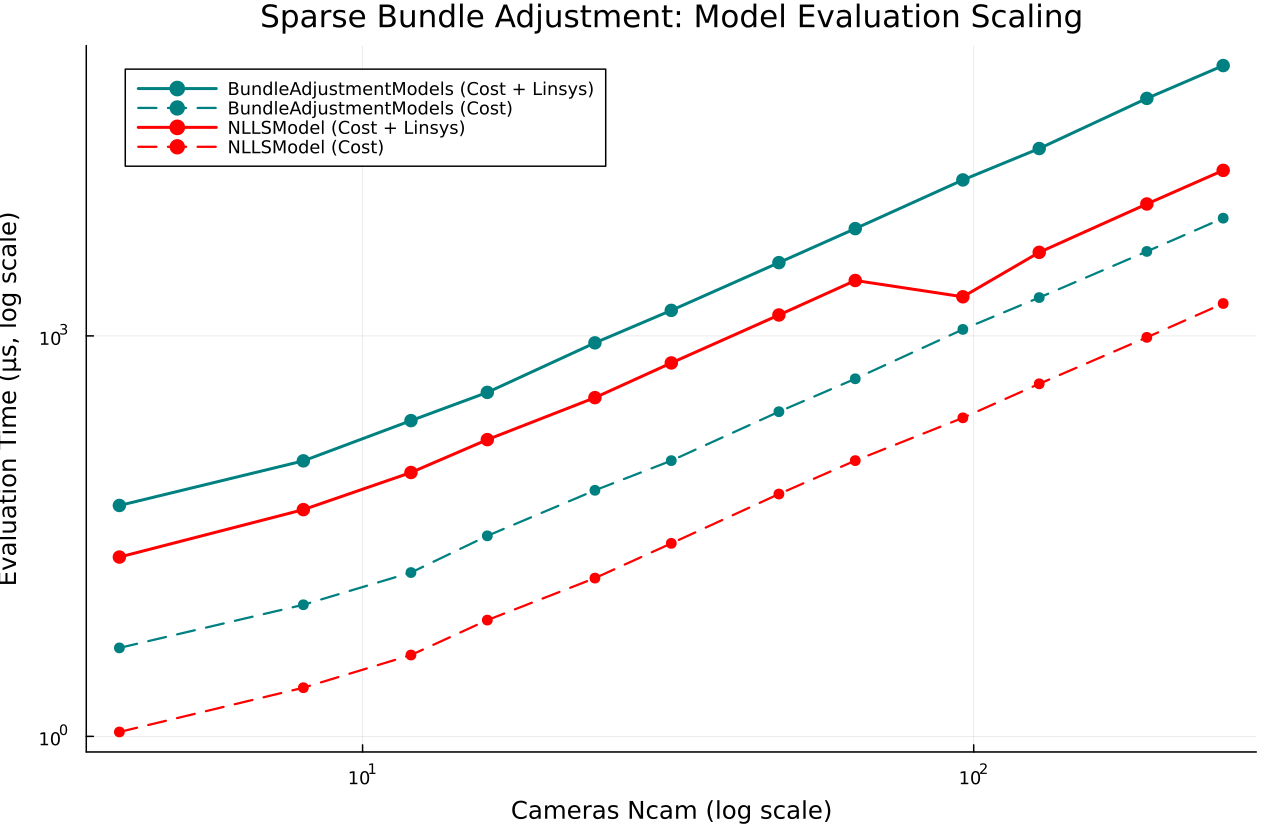
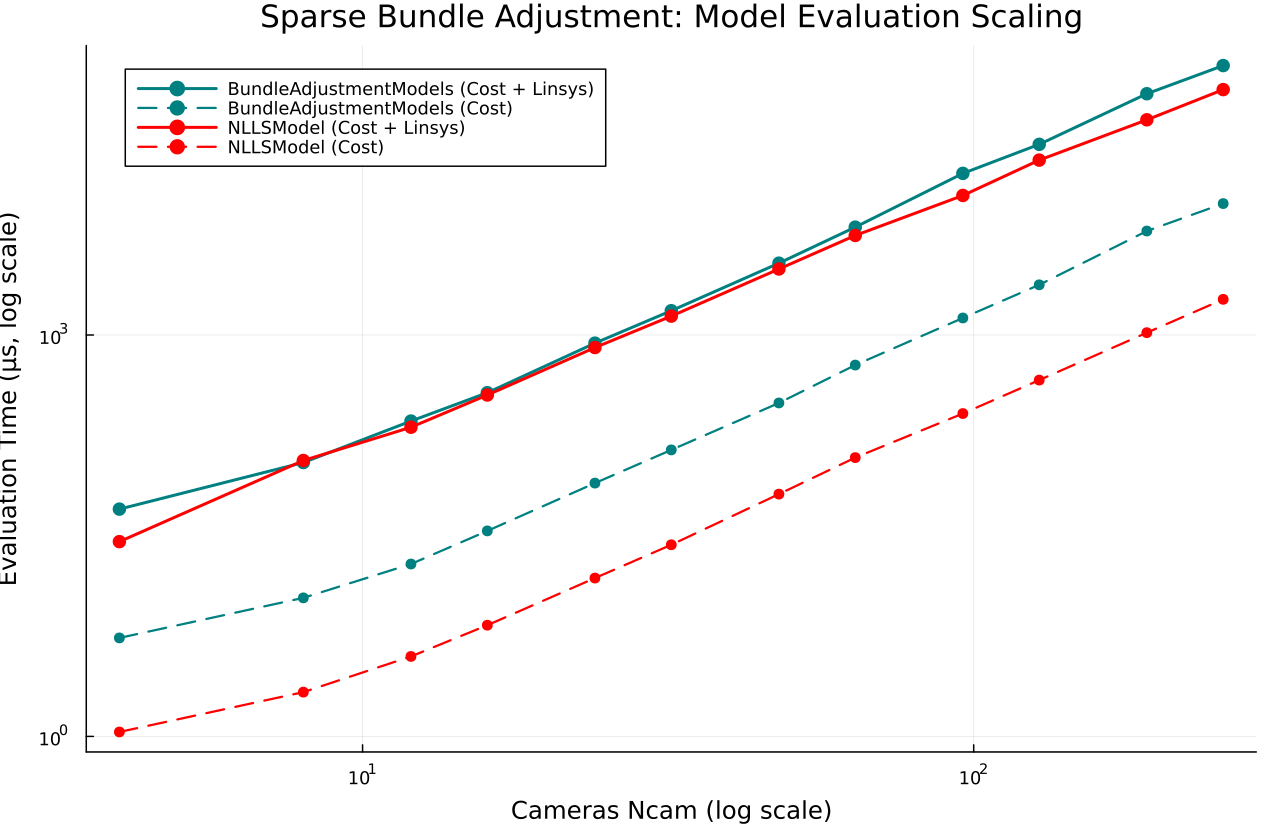
Remove dogleg from sparse BA problem

diff --git a/docs/src/data/bundle_adjustment.md b/docs/src/data/bundle_adjustment.md
@@ -4,11 +4,11 @@
 - **Scaling Metric**: Cameras Ncam
 - **Optimizer Target Model**: BundleAdjustmentModels
 - **Convergence Criteria**: gtol=1.0e-8, xtol=1.0e-8, ftol=1.0e-8, maxiters=500, maxtime=30.0s
-- **Benchmark Date**: 2026-11-07T21:19:28
+- **Benchmark Date**: 2026-11-09T12:06:03
 - **Host CPU**: apple-m1 (10 cores)
 - **OS**: Darwin (arm64-apple-darwin27.0.0)
 - **Julia Version**: 1.13.3
-- **Git Commit**: b448285
+- **Git Commit**: eba33b8
 
 ---
 
@@ -16,30 +16,30 @@
 
 | Size | Model | Cost Time (ns) | Cost Allocs | Cost Memory (bytes) | Linsys Time (ns) | Linsys Allocs | Linsys Memory (bytes) |
 |:---|:---|---:|---:|---:|---:|---:|---:|
-| 4 | NLLSModel | 1078.7222222222222 | 0 | 0 | 22042.0 | 0 | 0 |
-| 4 | BundleAdjustmentModels | 4600.0 | 0 | 0 | 53667.0 | 21 | 190832 |
-| 8 | NLLSModel | 2314.777777777778 | 0 | 0 | 49959.0 | 0 | 0 |
-| 8 | BundleAdjustmentModels | 9680.666666666666 | 0 | 0 | 115875.0 | 21 | 479488 |
-| 12 | NLLSModel | 4066.8 | 0 | 0 | 94792.0 | 0 | 0 |
-| 12 | BundleAdjustmentModels | 16875.0 | 0 | 0 | 232000.0 | 23 | 891744 |
-| 16 | NLLSModel | 7430.333333333333 | 0 | 0 | 167125.0 | 0 | 0 |
-| 16 | BundleAdjustmentModels | 31792.0 | 0 | 0 | 377541.0 | 23 | 1551824 |
-| 24 | NLLSModel | 15333.0 | 0 | 0 | 344917.0 | 0 | 0 |
-| 24 | BundleAdjustmentModels | 69708.0 | 0 | 0 | 887250.0 | 23 | 3494016 |
-| 32 | NLLSModel | 27916.0 | 0 | 0 | 627459.0 | 0 | 0 |
-| 32 | BundleAdjustmentModels | 116292.0 | 0 | 0 | 1.553708e6 | 23 | 6132032 |
-| 48 | NLLSModel | 65375.0 | 0 | 0 | 1.434625e6 | 0 | 0 |
-| 48 | BundleAdjustmentModels | 270542.0 | 0 | 0 | 3.540708e6 | 23 | 13774576 |
-| 64 | NLLSModel | 116375.0 | 0 | 0 | 2.601583e6 | 0 | 0 |
-| 64 | BundleAdjustmentModels | 477333.0 | 0 | 0 | 6.366208e6 | 23 | 24445040 |
-| 96 | NLLSModel | 243417.0 | 0 | 0 | 1.964333e6 | 3 | 3504 |
-| 96 | BundleAdjustmentModels | 1.118667e6 | 0 | 0 | 1.4743833e7 | 24 | 54910000 |
-| 128 | NLLSModel | 437708.0 | 0 | 0 | 4.227833e6 | 3 | 3504 |
-| 128 | BundleAdjustmentModels | 1.937291e6 | 0 | 0 | 2.5347833e7 | 24 | 97566256 |
-| 192 | NLLSModel | 975292.0 | 0 | 0 | 9.737458e6 | 3 | 3504 |
-| 192 | BundleAdjustmentModels | 4.294875e6 | 0 | 0 | 6.01685e7 | 24 | 219452976 |
-| 256 | NLLSModel | 1.7495e6 | 0 | 0 | 1.7391084e7 | 3 | 3504 |
-| 256 | BundleAdjustmentModels | 7.623375e6 | 0 | 0 | 1.06000292e8 | 24 | 390060592 |
+| 4 | NLLSModel | 1074.578947368421 | 0 | 0 | 26125.0 | 185 | 79104 |
+| 4 | BundleAdjustmentModels | 3465.3333333333335 | 0 | 0 | 54709.0 | 21 | 190832 |
+| 8 | NLLSModel | 2129.2 | 0 | 0 | 34625.0 | 0 | 0 |
+| 8 | BundleAdjustmentModels | 6903.0 | 0 | 0 | 111875.0 | 21 | 479488 |
+| 12 | NLLSModel | 3944.5 | 0 | 0 | 68708.0 | 0 | 0 |
+| 12 | BundleAdjustmentModels | 12459.0 | 0 | 0 | 237250.0 | 23 | 891744 |
+| 16 | NLLSModel | 6903.0 | 0 | 0 | 119000.0 | 0 | 0 |
+| 16 | BundleAdjustmentModels | 23417.0 | 0 | 0 | 381791.0 | 23 | 1551824 |
+| 24 | NLLSModel | 15750.0 | 0 | 0 | 263542.0 | 0 | 0 |
+| 24 | BundleAdjustmentModels | 50583.0 | 0 | 0 | 867083.0 | 23 | 3494016 |
+| 32 | NLLSModel | 27583.0 | 0 | 0 | 491750.0 | 0 | 0 |
+| 32 | BundleAdjustmentModels | 91000.0 | 0 | 0 | 1.529708e6 | 23 | 6132032 |
+| 48 | NLLSModel | 65167.0 | 0 | 0 | 1.053125e6 | 0 | 0 |
+| 48 | BundleAdjustmentModels | 204375.0 | 0 | 0 | 3.364125e6 | 23 | 13774576 |
+| 64 | NLLSModel | 110458.0 | 0 | 0 | 1.889792e6 | 0 | 0 |
+| 64 | BundleAdjustmentModels | 377250.0 | 0 | 0 | 7.02475e6 | 23 | 24445040 |
+| 96 | NLLSModel | 268875.0 | 0 | 0 | 2.742292e6 | 3 | 3504 |
+| 96 | BundleAdjustmentModels | 844542.0 | 0 | 0 | 1.6438917e7 | 24 | 54910000 |
+| 128 | NLLSModel | 1.664542e6 | 0 | 0 | 7.1535e6 | 3 | 3504 |
+| 128 | BundleAdjustmentModels | 2.437833e6 | 0 | 0 | 3.1335375e7 | 24 | 97566256 |
+| 192 | NLLSModel | 1.104625e6 | 0 | 0 | 1.1877208e7 | 3 | 3504 |
+| 192 | BundleAdjustmentModels | 3.605875e6 | 0 | 0 | 6.1914459e7 | 24 | 219452976 |
+| 256 | NLLSModel | 1.786917e6 | 0 | 0 | 1.6710583e7 | 3 | 3504 |
+| 256 | BundleAdjustmentModels | 6.792083e6 | 0 | 0 | 1.2071025e8 | 24 | 390060592 |
 
 ---
 
@@ -49,87 +49,24 @@ Solvers evaluated on their respective optimal model representations (e.g. `NLLSM
 
 | Size | Optimizer | Runtime (ns) | Allocs | Memory (bytes) | Iterations | Final Cost | Converged |
 |:---|:---|---:|---:|---:|---:|---:|:---|
-| 4 | SecondOrderOptimization (Sparse LM) | 859333.5 | 168 | 838800 | 8 | 8.2673e-16 | true |
-| 4 | SecondOrderOptimization (Sparse Dogleg) | 876916.5 | 164 | 675616 | 9 | 1.9846e-26 | true |
-| 4 | CaNNOLeS | 950749.5 | 191 | 359056 | 7 | 4.7517e-16 | true |
-| 4 | JSOSolvers (trunk) | 6.43944521e8 | 359780 | 1188428656 | 25 | 6.8334e-14 | true |
-| 4 | JSOSolvers (tron) | 6.205422708e9 | 3630139 | 11992520976 | 501 | 5.9770e-12 | false |
-| 4 | Ipopt | 2.6974995e6 | 632 | 2347072 | 8 | 4.0004e-15 | true |
-| 4 | MadNLP | 1.5363955e6 | 827 | 2362448 | 7 | 4.7778e-13 | true |
-| 8 | SecondOrderOptimization (Sparse LM) | 1.0493755e6 | 199 | 649728 | 7 | 2.8516e-15 | true |
-| 8 | SecondOrderOptimization (Sparse Dogleg) | 1.5232085e6 | 198 | 585712 | 11 | 6.0395e-25 | true |
-| 8 | CaNNOLeS | 1.756396e6 | 208 | 712224 | 6 | 3.4177e-16 | true |
-| 8 | JSOSolvers (trunk) | 3.0000271792e10 | 8961089 | 59033970256 | 200 | 4.8776e-13 | false |
-| 8 | JSOSolvers (tron) | 2.9703426958e10 | 8843893 | 58261488816 | 501 | 6.9254e-12 | false |
-| 8 | Ipopt | 5.163521e6 | 766 | 6821744 | 10 | 1.4563e-14 | true |
-| 8 | MadNLP | 2.6497915e6 | 827 | 5363552 | 7 | 1.8327e-11 | true |
-| 12 | SecondOrderOptimization (Sparse LM) | 2.0025205e6 | 226 | 1096384 | 7 | 1.1061e-15 | true |
-| 12 | SecondOrderOptimization (Sparse Dogleg) | 2.1465835e6 | 226 | 984176 | 8 | 9.7860e-26 | true |
-| 12 | CaNNOLeS | 3.3447505e6 | 222 | 1259808 | 6 | 8.4917e-16 | true |
-| 12 | JSOSolvers (trunk) | 3.0000492708e10 | 6611146 | 77880219792 | 87 | 3.0898e-12 | false |
-| 12 | JSOSolvers (tron) | 3.0001443083e10 | 6638999 | 78207500576 | 180 | 6.3665e-12 | false |
-| 12 | Ipopt | 7.6820835e6 | 740 | 11347760 | 9 | 5.4678e-14 | true |
-| 12 | MadNLP | 3.4619165e6 | 792 | 7375296 | 5 | 6.7695e-09 | true |
-| 16 | SecondOrderOptimization (Sparse LM) | 3.9623955e6 | 227 | 1815968 | 7 | 2.5031e-15 | true |
-| 16 | SecondOrderOptimization (Sparse Dogleg) | 4.521042e6 | 227 | 1622352 | 9 | 1.9672e-25 | true |
-| 16 | CaNNOLeS | 6.0194585e6 | 226 | 2370400 | 5 | 1.8425e-14 | true |
-| 16 | JSOSolvers (trunk) | 3.0000890083e10 | 3798348 | 74434010800 | 39 | 1.4273e-11 | false |
-| 16 | JSOSolvers (tron) | 3.0003315459e10 | 3820889 | 74874382000 | 52 | 1.4587e-11 | false |
-| 16 | Ipopt | 1.2924333e7 | 740 | 19373856 | 9 | 2.8960e-14 | true |
-| 16 | MadNLP | 6.5989585e6 | 833 | 14585168 | 6 | 2.3365e-10 | true |
-| 24 | SecondOrderOptimization (Sparse LM) | 1.060125e7 | 227 | 3758384 | 7 | 8.8448e-15 | true |
-| 24 | SecondOrderOptimization (Sparse Dogleg) | 1.0854292e7 | 227 | 3353824 | 8 | 1.1723e-24 | true |
-| 24 | CaNNOLeS | 1.38327915e7 | 228 | 4834176 | 5 | 1.9298e-17 | true |
-| 24 | JSOSolvers (trunk) | 3.000155625e10 | 1696100 | 72747191632 | 18 | 1.2651e-10 | false |
-| 24 | JSOSolvers (tron) | 3.000627325e10 | 1713809 | 73503874240 | 13 | 5.2016e-10 | false |
-| 24 | Ipopt | 3.30161665e7 | 882 | 52291856 | 11 | 6.0972e-16 | true |
-| 24 | MadNLP | 1.55202915e7 | 845 | 32202736 | 6 | 1.3226e-10 | true |
-| 32 | SecondOrderOptimization (Sparse LM) | 2.73205625e7 | 232 | 6471968 | 9 | 1.2027e-17 | true |
-| 32 | SecondOrderOptimization (Sparse Dogleg) | 1.9799708e7 | 232 | 5773520 | 7 | 2.9399e-24 | true |
-| 32 | CaNNOLeS | 3.332375e7 | 228 | 8092544 | 4 | 1.6044e-17 | true |
-| 32 | JSOSolvers (trunk) | 3.0004391708e10 | 974720 | 68452693584 | 14 | 1.5487e-09 | false |
-| 32 | JSOSolvers (tron) | 3.0016256375e10 | 960929 | 67479326944 | 5 | 1.7252e-09 | false |
-| 32 | Ipopt | 4.9632917e7 | 740 | 74536464 | 9 | 1.3067e-14 | true |
-| 32 | MadNLP | 3.1862916e7 | 886 | 63895632 | 7 | 2.1740e-11 | true |
-| 48 | SecondOrderOptimization (Sparse LM) | 1.03815896e8 | 254 | 14110000 | 12 | 1.8196e-23 | true |
-| 48 | SecondOrderOptimization (Sparse Dogleg) | 1.059340415e8 | 254 | 12563680 | 13 | 1.5955e-23 | true |
-| 48 | CaNNOLeS | 9.08985e7 | 228 | 18045824 | 4 | 1.8343e-18 | true |
-| 48 | JSOSolvers (trunk) | 3.0005454542e10 | 412880 | 65895277136 | 14 | 1.6217e-04 | false |
-| 48 | JSOSolvers (tron) | 3.0016821916e10 | 416279 | 66426981776 | 2 | 1.7232e-04 | false |
-| 48 | Ipopt | 2.66797417e8 | 1542 | 351228544 | 19 | 1.4722e-23 | true |
-| 48 | MadNLP | 9.54515835e7 | 804 | 105275120 | 5 | 2.7168e-08 | true |
-| 64 | SecondOrderOptimization (Sparse LM) | 2.48635625e8 | 254 | 27453296 | 13 | 5.3414e-23 | true |
-| 64 | SecondOrderOptimization (Sparse Dogleg) | 2.47640271e8 | 254 | 24745760 | 14 | 5.5091e-23 | true |
-| 64 | CaNNOLeS | 1.88581916e8 | 228 | 40147840 | 4 | 1.0359e-19 | true |
-| 64 | JSOSolvers (trunk) | 3.0009746042e10 | 238790 | 66835453648 | 9 | 6.1471e-01 | false |
-| 64 | JSOSolvers (tron) | 3.0045013625e10 | 238679 | 66785244608 | 1 | 1.7984e+01 | false |
-| 64 | Ipopt | 7.049169375e8 | 1510 | 620748800 | 19 | 4.8607e-23 | true |
-| 64 | MadNLP | 2.037508755e8 | 804 | 185804832 | 5 | 1.6882e-08 | true |
-| 96 | SecondOrderOptimization (Sparse LM) | 7.471406255e8 | 342 | 104533216 | 14 | 2.1437e-21 | true |
-| 96 | SecondOrderOptimization (Sparse Dogleg) | 8.481932705e8 | 348 | 87980016 | 17 | 2.4382e-22 | true |
-| 96 | CaNNOLeS | 5.37221229e8 | 228 | 77273984 | 4 | 1.6285e-21 | true |
-| 96 | JSOSolvers (trunk) | 3.0022955292e10 | 104150 | 65598307024 | 5 | 4.4481e+03 | false |
-| 96 | JSOSolvers (tron) | 3.0104549667e10 | 105419 | 66148146480 | 1 | 4.3682e+03 | false |
-| 96 | Ipopt | 2.756437791e9 | 2149 | 1903594128 | 26 | 2.4973e-22 | true |
-| 96 | MadNLP | 7.222942085e8 | 893 | 564854320 | 7 | 3.6600e-08 | true |
-| 128 | SecondOrderOptimization (Sparse LM) | 1.893810917e9 | 345 | 148211312 | 15 | 4.6305e-21 | true |
-| 128 | SecondOrderOptimization (Sparse Dogleg) | 2.322499042e9 | 354 | 135581488 | 19 | 8.0831e-22 | true |
-| 128 | CaNNOLeS | 1.147284708e9 | 228 | 164436864 | 4 | 2.8962e-21 | true |
-| 128 | JSOSolvers (trunk) | 3.0039017375e10 | 53870 | 60391062736 | 5 | 1.2181e+05 | false |
-| 128 | JSOSolvers (tron) | 3.0206521667e10 | 55079 | 61330041504 | 1 | 1.2845e+05 | false |
-| 128 | Ipopt | 4.609293166e9 | 2257 | 3377587760 | 26 | 7.4245e-22 | true |
-| 128 | MadNLP | 1.781851584e9 | 935 | 1181265872 | 8 | 1.3112e-07 | true |
-| 192 | SecondOrderOptimization (Sparse LM) | 7.092149667e9 | 351 | 394937968 | 17 | 4.4028e-21 | true |
-| 192 | SecondOrderOptimization (Sparse Dogleg) | 7.527567875e9 | 354 | 351146960 | 19 | 4.3125e-21 | true |
-| 192 | CaNNOLeS | 4.0038005e9 | 228 | 325180288 | 4 | 4.2749e-21 | true |
-| 192 | JSOSolvers (trunk) | 3.0112061041e10 | 23990 | 60995162832 | 3 | 1.5779e+06 | false |
-| 192 | JSOSolvers (tron) | 3.0568119333e10 | 24599 | 61605334864 | 1 | 1.5792e+06 | false |
-| 192 | Ipopt | 1.4018228916e10 | 2617 | 7880823232 | 27 | 4.0159e-21 | true |
-| 192 | MadNLP | 5.884508917e9 | 1019 | 3196730720 | 10 | 6.6633e-07 | true |
-| 256 | SecondOrderOptimization (Sparse LM) | 1.9592554875e10 | 354 | 598551504 | 18 | 1.3115e-20 | true |
-| 256 | SecondOrderOptimization (Sparse Dogleg) | 2.1330759958e10 | 360 | 548223344 | 20 | 1.2362e-20 | true |
-| 256 | CaNNOLeS | 1.0111620125e10 | 228 | 633215872 | 4 | 1.2505e-20 | true |
-| 256 | JSOSolvers (trunk) | 3.0243002083e10 | 13190 | 59524353744 | 3 | 3.5626e+06 | false |
-| 256 | JSOSolvers (tron) | 3.083085725e10 | 13499 | 60241490704 | 1 | 3.5656e+06 | false |
-| 256 | Ipopt | 3.0906483208e10 | 2397 | 13493124304 | 26 | 1.1618e-20 | false |
-| 256 | MadNLP | 1.5691301709e10 | 1229 | 8333891216 | 15 | 1.3193e-08 | true |
+| 4 | SecondOrderOptimization (Sparse LM) | 881333.5 | 6550 | 2854608 | 5 | 1.6891e-23 | true |
+| 4 | CaNNOLeS | 960479.0 | 188 | 306320 | 7 | 4.7517e-16 | true |
+| 4 | JSOSolvers (trunk) | 6.02172208e8 | 359780 | 1188428656 | 25 | 6.8334e-14 | true |
+| 4 | JSOSolvers (tron) | 5.058790209e9 | 3630139 | 11992520976 | 501 | 5.9770e-12 | false |
+| 4 | Ipopt | 2.696063e6 | 632 | 2347072 | 8 | 4.0004e-15 | true |
+| 4 | MadNLP | 1.4703125e6 | 827 | 2362448 | 7 | 4.7778e-13 | true |
+| 8 | SecondOrderOptimization (Sparse LM) | 714583.0 | 211 | 637168 | 5 | 5.3025e-26 | true |
+| 8 | CaNNOLeS | 1.757333e6 | 205 | 623136 | 6 | 3.4177e-16 | true |
+| 8 | JSOSolvers (trunk) | 2.9325585209e10 | 10798466 | 71138337728 | 501 | 3.3699e-13 | false |
+| 8 | JSOSolvers (tron) | 2.4289683875e10 | 8843893 | 58261488816 | 501 | 6.9254e-12 | false |
+| 8 | Ipopt | 5.831958e6 | 766 | 6821744 | 10 | 1.4563e-14 | true |
+| 8 | MadNLP | 2.748229e6 | 827 | 5363552 | 7 | 1.8327e-11 | true |
+| 12 | SecondOrderOptimization (Sparse LM) | 1.422875e6 | 242 | 1069232 | 5 | 1.3397e-23 | true |
+| 12 | CaNNOLeS | 3.4548535e6 | 219 | 1100064 | 6 | 8.4917e-16 | true |
+| 12 | JSOSolvers (trunk) | 3.0000319625e10 | 6794026 | 80034594960 | 89 | 2.9859e-12 | false |
+| 12 | JSOSolvers (tron) | 3.0001533708e10 | 6733799 | 79324269856 | 183 | 6.2432e-12 | false |
+| 12 | Ipopt | 8.115771e6 | 740 | 11347760 | 9 | 5.4678e-14 | true |
+| 12 | MadNLP | 3.550708e6 | 792 | 7375296 | 5 | 6.7695e-09 | true |
+| 16 | SecondOrderOptimization (Sparse LM) | 2.759562e6 | 243 | 1773456 | 5 | 5.3040e-23 | true |
+| 16 | CaNNOLeS | 6.160791e6 | 223 | 2104160 | 5 | 1.8425e-14 | true |
+| 16 | JSOSolvers (trunk) | 3.0001542e10 | 3913758 | 76695677488 | 40 | 1.2956e-11 | false |

diff --git a/docs/src/problems/bundle_adjustment.md b/docs/src/problems/bundle_adjustment.md
@@ -33,6 +33,6 @@ The full numeric benchmark measurements (cost, linear system assembly times, out
 
 ## 4. Analysis & Key Takeaways
 
-- **Model Efficiency**: At Cameras Ncam = `256`, **`NLLSModel`** achieves the fastest Cost + Linear System evaluation at **17.39 ms** (3.4 KiB allocated).
-- **Top Converged Optimizer**: At Cameras Ncam = `256` (4/7 solvers converged), **`CaNNOLeS`** is fastest at **10.11 s** (4 iterations, final cost `1.25e-20`).
+- **Model Efficiency**: At Cameras Ncam = `256`, **`NLLSModel`** achieves the fastest Cost + Linear System evaluation at **68.23 ms** (123.0 MiB allocated).
+- **Top Converged Optimizer**: At Cameras Ncam = `256` (3/7 solvers converged), **`CaNNOLeS`** is fastest at **10.20 s** (4 iterations, final cost `1.25e-20`).
 - **Convergence Filtering**: Only runs satisfying universal convergence tolerances (`gtol = 1.0e-8`, `xtol = 1.0e-8`, `ftol = 1.0e-8`) within `500` iterations and `30.0s` are plotted.
